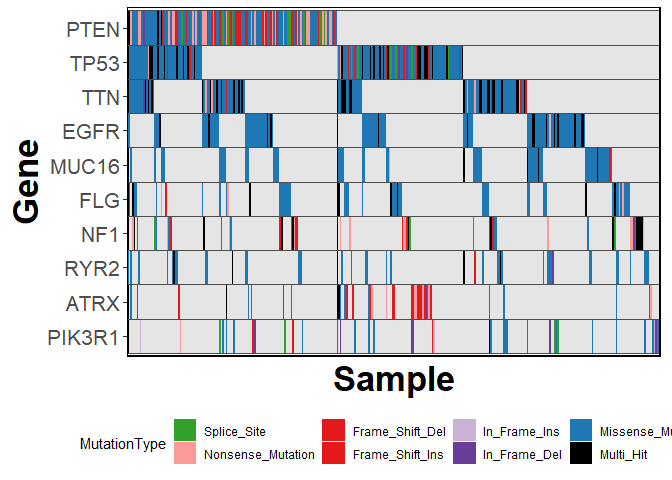
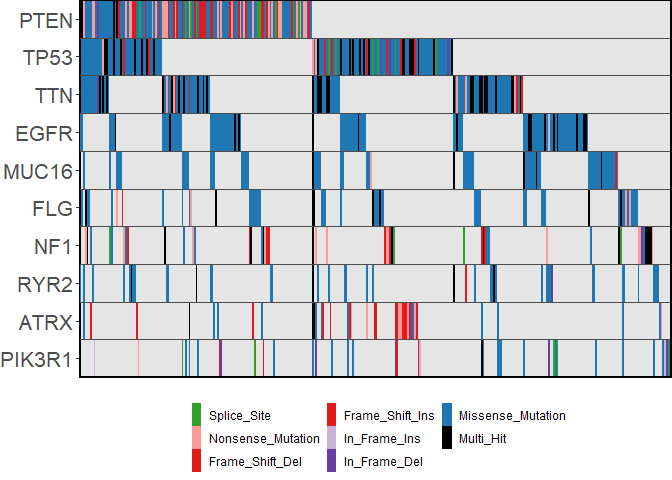
updated docs, more customisability, added auto coloring of tmb by mutation type

diff --git a/README.md b/README.md
@@ -48,6 +48,8 @@ These columns can be in any order, and named anything. You define the
 mapping of your input dataset columns to the required features in the
 call to **ggoncoplot**
 
+### Basic Example
+
 ``` r
 library(ggoncoplot)
 
@@ -72,3 +74,27 @@ gbm_df |>
 ```
 
 <img src="man/figures/README-example-1.png" width="100%" />
+
+### Add marginal plots
+
+``` r
+
+gbm_df |> 
+  ggoncoplot(
+    col_genes = 'Hugo_Symbol', 
+    col_samples = 'Tumor_Sample_Barcode', 
+    col_mutation_type = 'Variant_Classification', 
+    topn = 10, 
+    draw_gene_barplot = TRUE, 
+    draw_tmb_barplot = TRUE,
+    interactive = FALSE
+  )
+#> 
+#> ── Identify Class ──────────────────────────────────────────────────────────────
+#> ℹ Found 7 unique mutation types in input set
+#> ℹ 0/7 mutation types were valid SO terms
+#> ℹ 7/7 mutation types were valid MAF terms
+#> ✔ Mutation Types are described using valid MAF terms ... using MAF palete
+```
+
+<img src="man/figures/README-unnamed-chunk-2-1.png" width="100%" />
